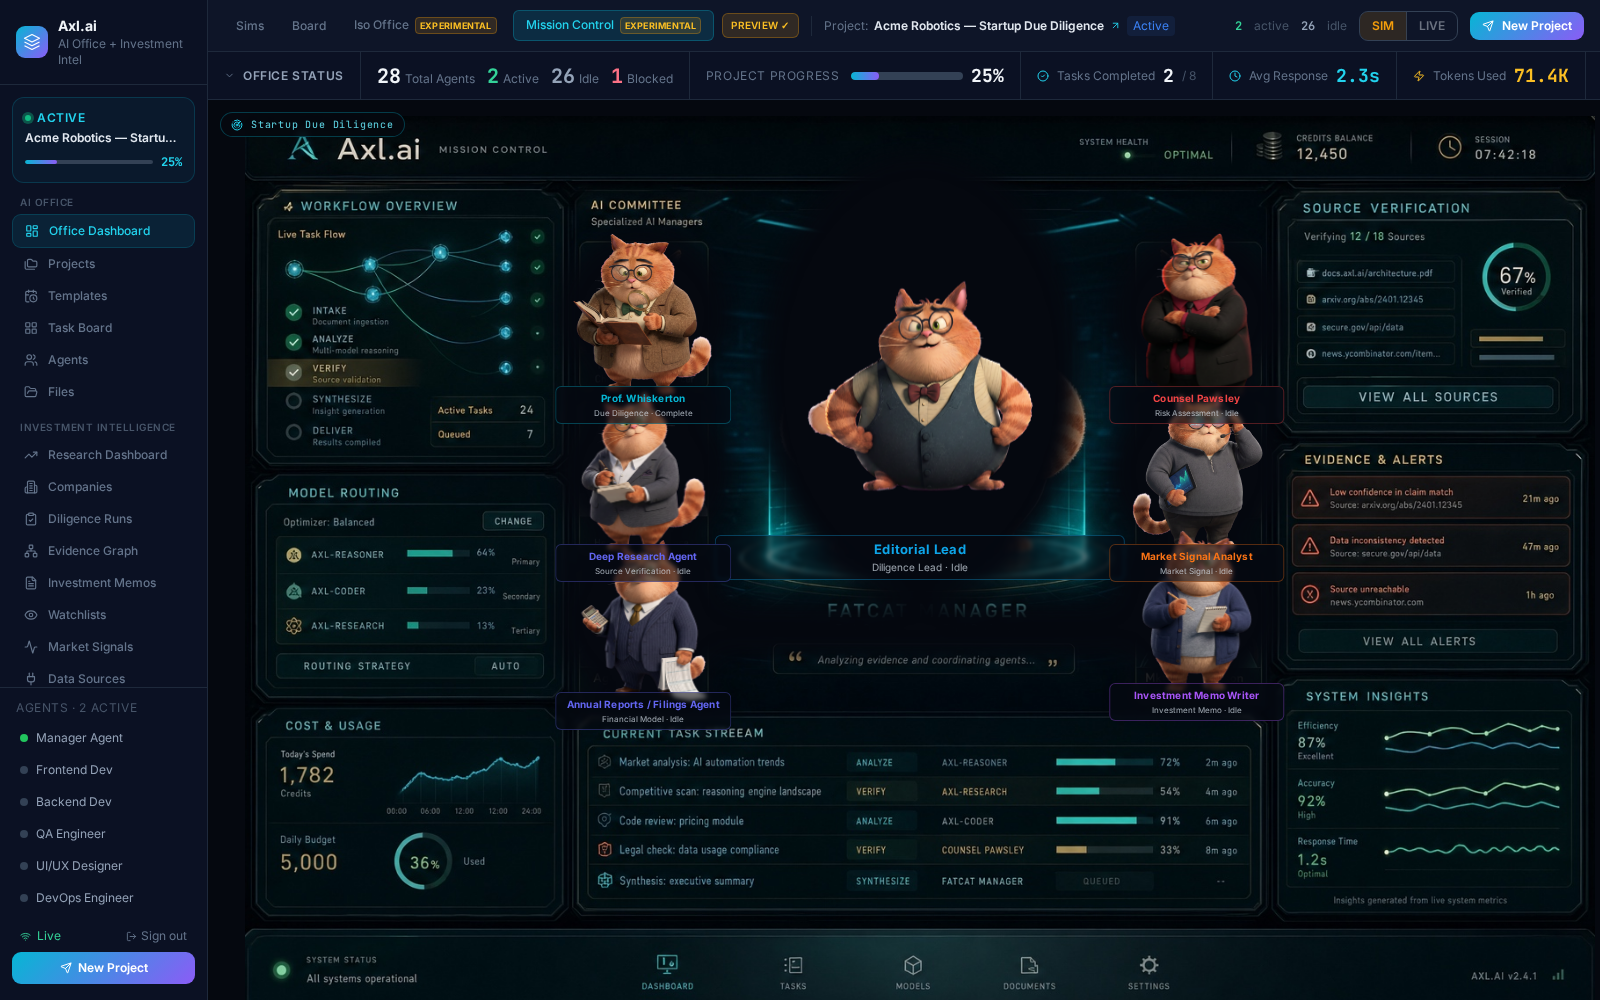
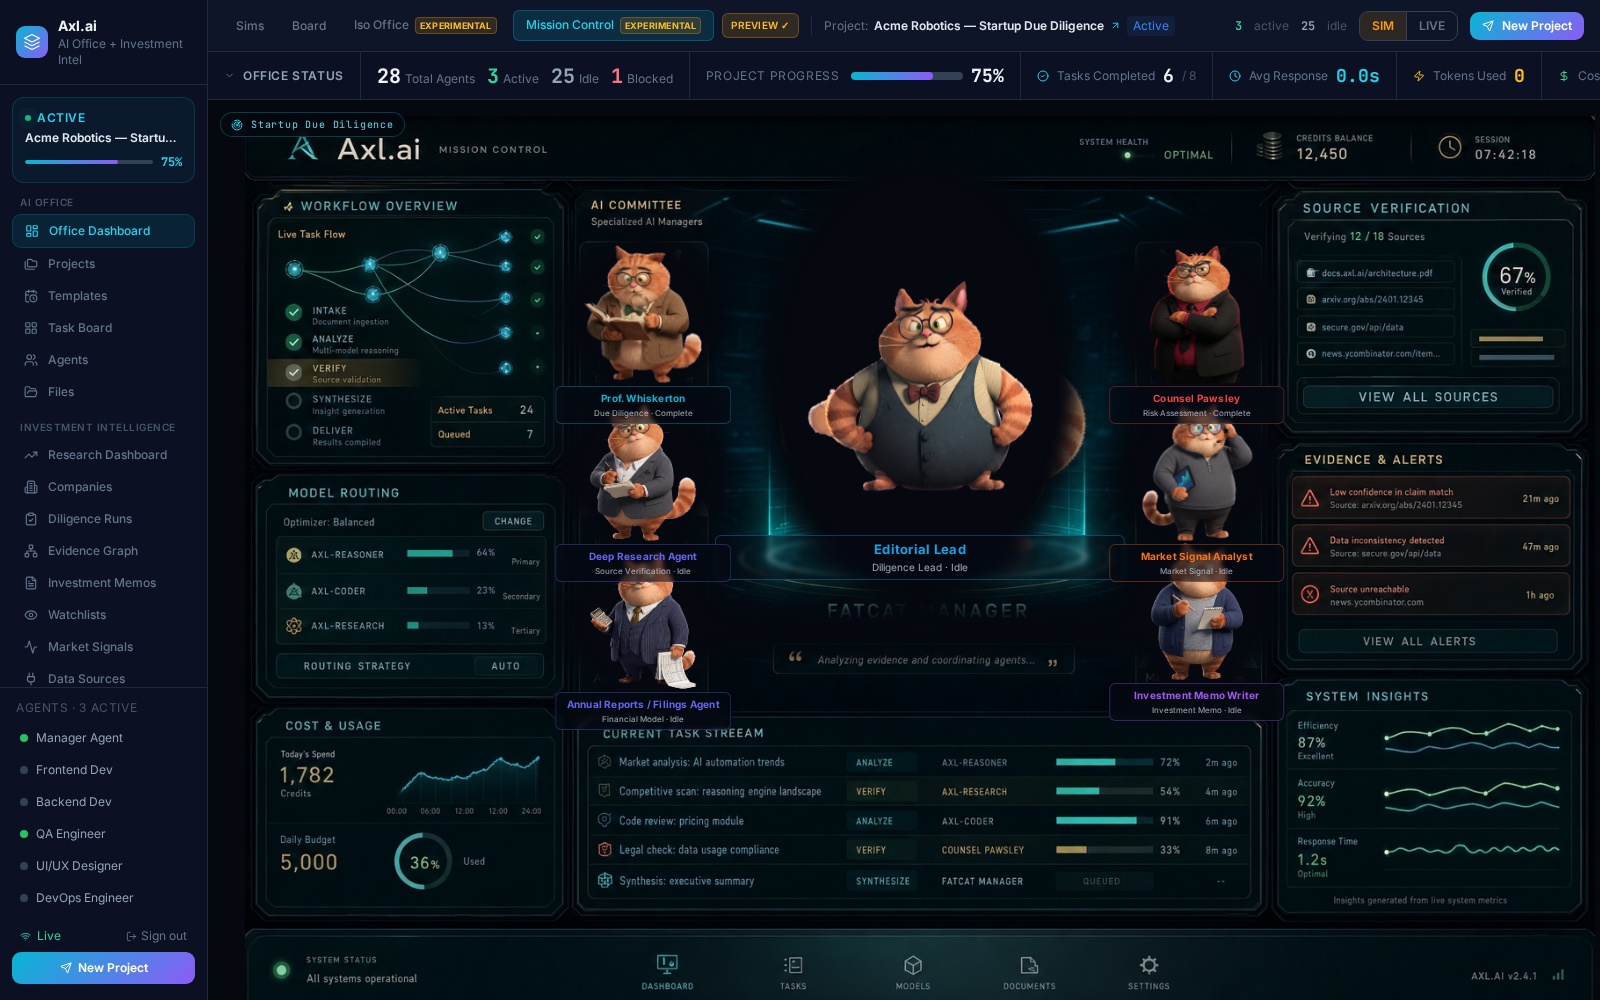
stage(6.14.2): shrink committee sprites to fix row overlap
User QA caught adjacent committee rows overlapping in the diligence swap
(all 6 seats filled). Painted row centres in empty_frame.png sit ~17.5pp
apart (measured from alpha mask), so a sprite h=18pp left negative
breathing room between rows — the keyed cat bodies bled into neighbours.

Fix: committee sprites now render at heightScale=0.85 (committee width
also 0.95), keeping them centred on the seat anchor and leaving ~2pp of
gap between adjacent rows. Manager unchanged (1.15x scale, no neighbours
in the centre column).

Tests + QA screenshots updated.

diff --git a/client/src/components/fatcat/MissionControlCanvas.tsx b/client/src/components/fatcat/MissionControlCanvas.tsx
@@ -91,10 +91,14 @@ function SeatSprite({
   slot, seat, kind,
 }: { slot: RosterSlot; seat: SeatRect; kind: "manager" | "committee" }) {
   const src = archetypeSpriteUrl(slot.archetype);
-  // Manager is painted larger and shifted slightly down vs the seat rect; the
-  // ratios below match the empty_frame.png mask used to clear the painted figure.
-  const heightScale = kind === "manager" ? 1.15 : 1.0;
-  const yOffsetPct = kind === "manager" ? 1 : 1; // both nudge ~1% down so paws sit on the painted glow
+  // Painted row centres in empty_frame.png (measured from alpha mask) sit ~17.5pp
+  // apart; with sprite h=18pp the rows visibly overlap when all 6 seats are filled
+  // (e.g. the diligence workflow). We shrink committee sprites to 15pp tall so
+  // adjacent rows leave ~2pp of breathing room while still filling the painted
+  // seat band. Manager keeps its larger silhouette (center column has no neighbours).
+  const heightScale = kind === "manager" ? 1.15 : 0.85;
+  const widthScale  = kind === "manager" ? 1.05 : 0.95;
+  const yOffsetPct  = kind === "manager" ? 1   : 1; // nudge ~1% down so paws sit on the painted glow
 
   return (
     <img
@@ -107,7 +111,7 @@ function SeatSprite({
       style={{
         left: `${seat.x}%`,
         top: `${seat.y + yOffsetPct}%`,
-        width: `${seat.w * 1.05}%`,
+        width: `${seat.w * widthScale}%`,
         height: `${seat.h * heightScale}%`,
         transform: "translate(-50%, -50%)",
         objectFit: "contain",

diff --git a/client/src/components/fatcat/MissionControlCanvas.test.ts b/client/src/components/fatcat/MissionControlCanvas.test.ts
@@ -40,8 +40,9 @@ describe("MissionControlCanvas — composite renderer", () => {
     const src = read(CANVAS);
     expect(src).toMatch(/<SeatSprite\s+slot=\{manager\}/);
     expect(src).toMatch(/filledSeats\.map/);
-    // Manager and committee branches diverge on heightScale.
-    expect(src).toMatch(/kind === "manager" \? 1\.15 : 1\.0/);
+    // Manager and committee branches diverge on heightScale. Manager is upscaled,
+    // committee is downscaled to leave breathing room between adjacent painted rows.
+    expect(src).toMatch(/kind === "manager" \? 1\.15 : 0\.85/);
   });
 
   it("overlays live name + role + status in the cleared nameplate band", () => {